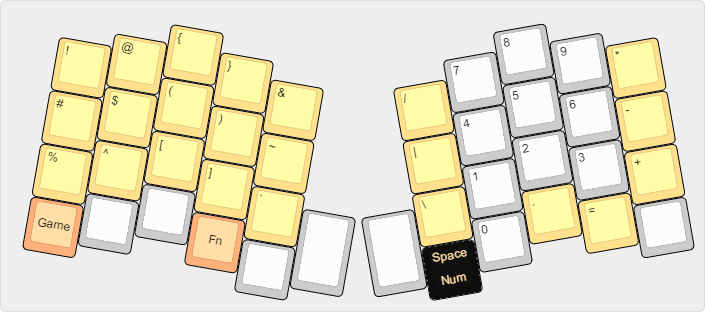
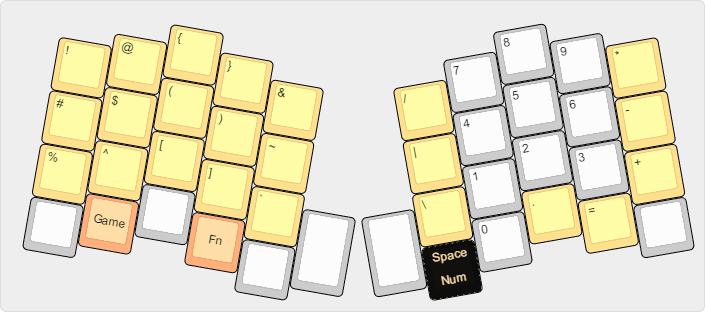
Several key placement fixes.
* Switched Tab and Super on the default layout
* Moved Shift on Extend to pinky
* Moved Caps Lock to upper right corner
* Moved gaming toggle to avoid blocking Escape

Changed region(s): [[0.0312, 0.6058, 0.2184, 0.8365]]

diff --git a/keyboards/atreus/keymaps/replicaJunction/keymap.c b/keyboards/atreus/keymaps/replicaJunction/keymap.c
@@ -49,28 +49,28 @@ const uint16_t PROGMEM keymaps[][MATRIX_ROWS][MATRIX_COLS] = {
   KC_Q,        KC_W,    KC_F,    KC_P,    KC_B,                                   KC_J,            KC_L,    KC_U,    KC_Y,    KC_SCLN,
   KC_A,        KC_R,    KC_S,    KC_T,    KC_G,                                   KC_M,            KC_N,    KC_E,    KC_I,    KC_O,
   SFT_T(KC_Z), KC_X,    KC_C,    KC_D,    KC_V,                                   KC_K,            KC_H,    KC_COMM, KC_DOT,  SFT_T(KC_SLSH),
-  KC_ESC,      KC_TAB,  KC_LGUI, KC_LALT, KC_BSPC, CTL_T(KC_DEL), ALT_T(KC_ENT),  LT(_NU, KC_SPC), MO(_EX), KC_MINS, KC_QUOT, KC_EQL
+  KC_ESC,      KC_LGUI, KC_TAB,  KC_LALT, KC_BSPC, CTL_T(KC_DEL), ALT_T(KC_ENT),  LT(_NU, KC_SPC), MO(_EX), KC_MINS, KC_QUOT, KC_EQL
 ),
 
 [_QW] = KEYMAP( /* Qwerty */
   KC_Q,        KC_W,    KC_E,    KC_R,    KC_T,                                  KC_Y,            KC_U,    KC_I,    KC_O,    KC_P,
   KC_A,        KC_S,    KC_D,    KC_F,    KC_G,                                  KC_H,            KC_J,    KC_K,    KC_L,    KC_SCLN,
   SFT_T(KC_Z), KC_X,    KC_C,    KC_V,    KC_B,                                  KC_N,            KC_M,    KC_COMM, KC_DOT,  SFT_T(KC_SLSH),
-  KC_ESC,      KC_TAB,  KC_LGUI, KC_LALT, KC_BSPC, CTL_T(KC_DEL), ALT_T(KC_ENT), LT(_NU, KC_SPC), MO(_EX), KC_MINS, KC_QUOT, KC_EQL
+  KC_ESC,      KC_LGUI, KC_TAB,  KC_LALT, KC_BSPC, CTL_T(KC_DEL), ALT_T(KC_ENT), LT(_NU, KC_SPC), MO(_EX), KC_MINS, KC_QUOT, KC_EQL
 ),
 
 [_EX] = KEYMAP( /* Extend */
-  _______, _______, _______, _______, _______,                   KC_PGUP, KC_HOME, KC_UP,   KC_END,  KC_DEL,
+  KC_CAPS, _______, _______, _______, _______,                   KC_PGUP, KC_HOME, KC_UP,   KC_END,  KC_DEL,
   _______, KC_LGUI, KC_LALT, KC_LCTL, _______,                   KC_PGDN, KC_LEFT, KC_DOWN, KC_RGHT, KC_BSPC,
-  KC_CAPS, KX_CUT,  KX_COPY, _______, KX_PAST,                   _______, KC_TAB,  KCX_LST, _______, KC_INSERT,
-  _______, _______, _______, _______, KC_LSFT, _______, _______, KC_SPC,  _______, _______, _______, KC_PSCR
+  _______, KX_CUT,  KX_COPY, _______, KX_PAST,                   _______, KC_TAB,  KCX_LST, _______, KC_INSERT,
+  _______, _______, _______, _______, _______, _______, _______, KC_SPC,  _______, _______, _______, KC_PSCR
 ),
 
 [_NU] = KEYMAP( /* Numbers and symbols */
   KC_EXLM, KC_AT,   KC_LCBR, KC_RCBR, KC_AMPR,                    KC_SLSH, KC_7,    KC_8,   KC_9,   KC_ASTR,
   KC_HASH, KC_DLR,  KC_LPRN, KC_RPRN, KC_TILD,                    KC_PIPE, KC_4,    KC_5,   KC_6,   KC_MINS,
   KC_PERC, KC_CIRC, KC_LBRC, KC_RBRC, KC_GRV,                     KC_BSLS, KC_1,    KC_2,   KC_3,   KC_PLUS,
-  TG(_GA), _______, _______, MO(_FN), _______, _______,  _______, _______, KC_0,    KC_DOT, KC_EQL, _______
+  _______, TG(_GA), _______, MO(_FN), _______, _______,  _______, _______, KC_0,    KC_DOT, KC_EQL, _______
 ),
 
 [_FN] = KEYMAP( /* Functions */

diff --git a/keyboards/atreus/keymaps/replicaJunction/readme.md b/keyboards/atreus/keymaps/replicaJunction/readme.md
@@ -10,13 +10,13 @@ I won't claim that this layout is perfect for everyone. It does make several sig
 
 ## Base Layer ##
 
-![Atreus base layout](atreus-replica-base.png)
+![Atreus base layout](atreus-replica-base-colemakdh.png)
 
 The letters on this layout are arranged in the [Colemak Mod-DH layout](https://colemakmods.github.io/mod-dh/).
 
 Note that there are four dual-purpose keys: Shift (Backspace), Ctrl (Delete), Alt (Enter), and Space (Number layer). In QMK, these dual-role keys can be made to hold their primary key by double-tapping the key and holding on the second tap. For example, if I wanted to insert a long string of Spaces, I would tap the Space key, then tap it again and hold. A single press and hold would trigger the secondary function of the key instead.
 
-There is still one blank key on this layout. I haven't decided what to use it for yet. On my keyboard, I have this assigned to another Shift key.
+The secondary Alt on the left bottom row exists to provide a single-hand Alt+Tab shortcut, which would take two rows otherwise.
 
 ## Extend Layer ##
 
@@ -24,11 +24,11 @@ There is still one blank key on this layout. I haven't decided what to use it fo
 
 This layout is designed primarily for keyboard navigation. Arrow keys are easily accessible under the right hand (a welcome change from the original Atreus layout, which places them under the left hand), along with Home/End and PgUp/PgDn.
 
-Modifiers are also placed under the home row of the left hand. One of the single keyboard actions I use most is Shift+Ctrl+Left/Right to select a whole word; this layer makes those keypresses simple by adding the Ctrl and Shift keys in easy-to-reach locations.
+Modifiers are also placed under the home row of the left hand. One of the single keyboard actions I use most is Shift+Ctrl+Left/Right to select a whole word; this layer makes those keypresses simple by adding the Ctrl key in an easy-to-reach location.
 
 For the common Ctrl shortcuts, I also added some hotkeys to this layer over the letter keys they are associated with. This gives the Extend key some extra utility by letting it "feel" like a Ctrl key in some cases.
 
-The Space key exists to prevent going from this layer directly into the Number layer. Similarly, the Shift key on the left thumb helps make sure that the Backspace function doesn't fire (the other role of this key on the base layout).
+The Space key exists to prevent going from this layer directly into the Number layer. Similarly, the Shift key on the left pinky helps make sure that the normal letter (Z) doesn't fire.
 
 ## Number and Symbol Layer ##
 
@@ -44,4 +44,14 @@ This layer also provides plenty of symbol shortcuts. Most of these can be access
 
 Function keys (F1-F12) are on this layer, as well as some more generic "functions" such as media keys. I've also set up a mirror image of the arrows from the Extend layer in case I need to use these with my left hand, but I don't do this very often.
 
-The reset key is on this layer, as well as a toggle from Colemak to QWERTY and back. The QWERTY layer is not currently documented (nor is a small "gaming" layer that adds mouse keys on top of QWERTY).
+The reset key is on this layer, as well as a toggle from Colemak to QWERTY and back. The QWERTY layer is not currently documented, but it is functionally identical to the base layer except for letter positions.
+
+## Gaming Layer ##
+
+![Atreus gaming layer](atreus-replica-game.png)
+
+This is a small layer developed to allow some simple gameplay without a mouse. This layer is a toggle (from the Number layer), so it is designed to stay on while in use.
+
+The keys on the left hand bring Space into the left thumb's reach, as well as overriding the dual-role Shift with its standard function (Z in both QWERTY and in Colemak). This allows easy Shift presses without blocking the Z key, commonly used in games.
+
+I would probably not consider this a hard-core gaming keyboard, and this layout does have the huge problem of blocking access to the number keys, but for more casual games, it plays quite well. I've used it quite a bit on Minecraft, for example, and I'm quite pleased with it.
